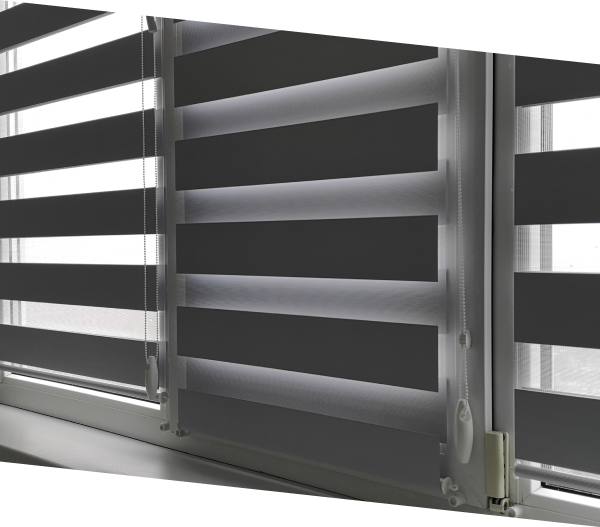
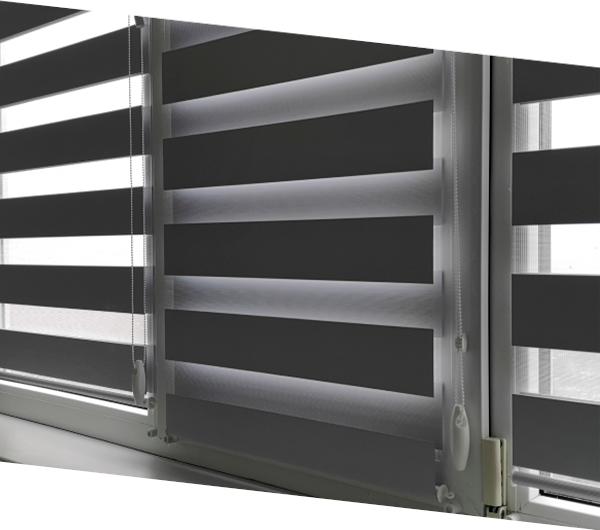
upd jalousie page

diff --git a/biadecor/jalousie.html b/biadecor/jalousie.html
@@ -87,9 +87,9 @@
     <h2 class="header__ver header__ver-right roller__head">Рулонные</h2>
     <div class="boxes roller__boxes roller__boxes-first">
       <div class="box-img">
-        <img class="image" src="images/jalousie/roller.jpg" alt="" />
+        <img class="image" src="images/jalousie/roller.png" alt="" />
       </div>
-      <div class="box-text roller__box">
+      <div class="box-text roller__box roller__box-first">
         <h2 class="box-title">Рулонные жалюзи</h2>
         <div class="box-text">
           <p>
@@ -103,6 +103,13 @@
         <div class="box-btns">
           <button class="btn btn-reset box-btn">Каталог тканей</button>
           <button class="btn btn-reset box-btn">Способ ухода</button>
+        </div>
+        <div class="roller__bottom">
+          <button class="roller__btn">
+            <svg class="roller__btn-svg" aria-hidden="true">
+              <use xlink:href="images/icons/sprite.svg#top-dark"></use>
+            </svg>
+          </button>
         </div>
       </div>
     </div>
@@ -141,7 +148,7 @@
     <h2 class="header__ver header__ver-right roller__head">римские</h2>
     <div class="boxes roller__boxes">
       <div class="box-img">
-        <img class="image" src="images/jalousie/rome.png" alt="" />
+        <img class="image" src="images/jalousie/rim.png" alt="" />
       </div>
       <div class="box-text roller__box">
         <h2 class="box-title">Римские шторы</h2>

diff --git a/#src/html/roller.html b/#src/html/roller.html
@@ -4,9 +4,9 @@
     <h2 class="header__ver header__ver-right roller__head">Рулонные</h2>
     <div class="boxes roller__boxes roller__boxes-first">
       <div class="box-img">
-        <img class="image" src="@img/jalousie/roller.jpg" alt="" />
+        <img class="image" src="@img/jalousie/roller.png" alt="" />
       </div>
-      <div class="box-text roller__box">
+      <div class="box-text roller__box roller__box-first">
         <h2 class="box-title">Рулонные жалюзи</h2>
         <div class="box-text">
           <p>
@@ -20,6 +20,13 @@
         <div class="box-btns">
           <button class="btn btn-reset box-btn">Каталог тканей</button>
           <button class="btn btn-reset box-btn">Способ ухода</button>
+        </div>
+        <div class="roller__bottom">
+          <button class="roller__btn">
+            <svg class="roller__btn-svg" aria-hidden="true">
+              <use xlink:href="images/icons/sprite.svg#top-dark"></use>
+            </svg>
+          </button>
         </div>
       </div>
     </div>
@@ -58,7 +65,7 @@
     <h2 class="header__ver header__ver-right roller__head">римские</h2>
     <div class="boxes roller__boxes">
       <div class="box-img">
-        <img class="image" src="@img/jalousie/rome.png" alt="" />
+        <img class="image" src="@img/jalousie/rim.png" alt="" />
       </div>
       <div class="box-text roller__box">
         <h2 class="box-title">Римские шторы</h2>

diff --git a/biadecor/css/style.css b/biadecor/css/style.css
@@ -630,9 +630,8 @@ input {
   font-style: normal;
 }
 
-.box-img img {
-  -o-object-fit: cover;
-  object-fit: cover;
+.box-img {
+  margin-top: -2px;
 }
 .box-text {
   display: -webkit-box;
@@ -653,6 +652,7 @@ input {
   margin-bottom: 35px;
 }
 .box-text {
+  position: relative;
   font-weight: 300;
   font-size: 16px;
   line-height: 1.5;
@@ -760,6 +760,17 @@ input {
 }
 .roller__box {
   margin-bottom: 0;
+}
+.roller__box-first {
+  margin-bottom: 67px;
+}
+.roller__bottom {
+  position: absolute;
+  bottom: -117px;
+  right: 20px;
+  -webkit-transform: rotate(180deg);
+  -ms-transform: rotate(180deg);
+  transform: rotate(180deg);
 }
 .roller__btn {
   padding-left: 47px;

diff --git a/#src/sass/components/_box.sass b/#src/sass/components/_box.sass
@@ -1,10 +1,8 @@
 .box
   &-img
-    // overflow: hidden
-    // transform: skewY(6.5deg)
-    img
-      object-fit: cover
-      // transform: skewY(-6.5deg)
+    margin-top: -2px
+  // &-img-first
+  //   height: 470px
   &-text
     display: flex
     flex-direction: column
@@ -16,6 +14,7 @@
     // color: $text
     margin-bottom: 35px
   &-text
+    position: relative
     @include font(300, 16, 24)
     letter-spacing: 0.06em
     margin-bottom: 37px

diff --git a/#src/sass/components/_roller.sass b/#src/sass/components/_roller.sass
@@ -63,6 +63,14 @@
       transform: translateY( var(--translation) )
   &__box
     margin-bottom: 0
+    &-first
+      margin-bottom: 67px
+
+  &__bottom
+    position: absolute
+    bottom: -117px
+    right: 20px
+    transform: rotate(180deg)
 
   &__btn
     padding-left: 47px
